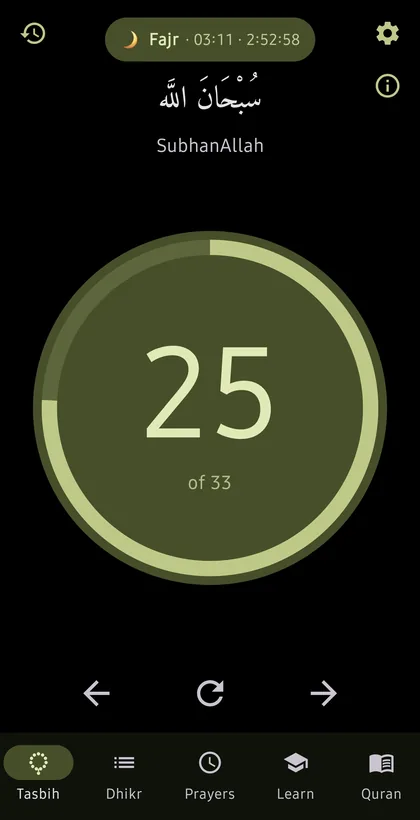
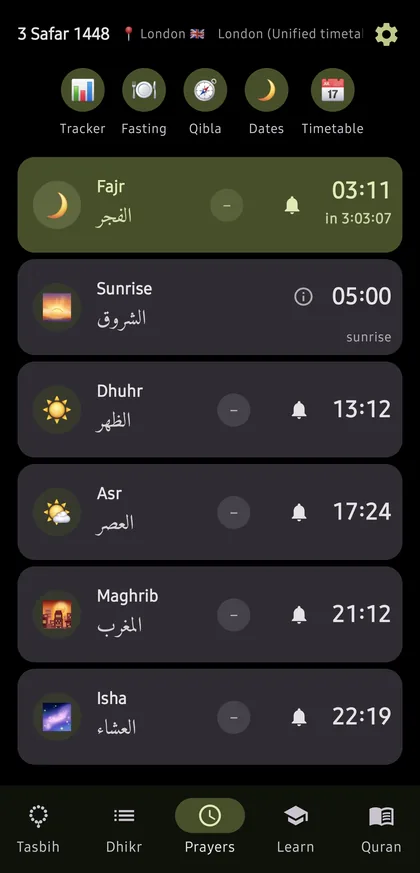
Use the prayer times screen as the Tasbih+ hero
Shows more of what the app does than the counter screen. Height
attribute updated to match the new aspect ratio.

diff --git a/apps/index.html b/apps/index.html
@@ -38,8 +38,8 @@
             <a href="../privacy/tasbih-plus.html">Privacy policy &rarr;</a>
           </div>
         </div>
-        <img class="shot-img" src="../img/tasbih-plus.webp" width="420" height="820" loading="lazy"
-             alt="Tasbih+ dhikr counter screen showing a tally of 25 of 33 and the next prayer time.">
+        <img class="shot-img" src="../img/tasbih-plus.webp" width="420" height="873" loading="lazy"
+             alt="Tasbih+ prayer times screen listing Fajr through Isha with a countdown to the next prayer.">
       </div>
 
       <div class="card shot">
